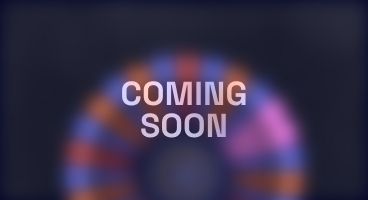
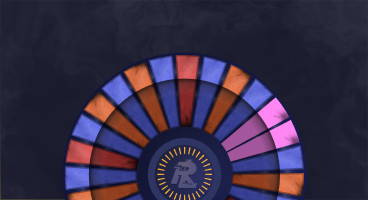
remove game modes

diff --git a/src/components/new-home/RustyOriginals.jsx b/src/components/new-home/RustyOriginals.jsx
@@ -46,6 +46,7 @@ const gameModes = [
   {
     name: "Mines",
     video: Mines,
+    disabled: true,
     icon: <MinesIcon additionClasses='w-5 h-5 text-gray-55' />,
     url: URL.GAMEMODES.MINES
   },
@@ -58,6 +59,7 @@ const gameModes = [
   {
     name: "Plinko",
     video: Plinko,
+    disabled: true,
     icon: <PlinkoIcon additionClasses='w-5 h-5 text-gray-55' />,
     url: URL.GAMEMODES.PLINKO
   },
@@ -89,8 +91,13 @@ const RustyOriginals = () => {
         <div class="grid grid-cols-home-original gap-x-6 gap-y-8 w-full ">
             <For each={[...gameModes].slice(0, 3)}>
                 {(mode) => 
-                <div class={`col-span-5 home-originals overflow-hidden ${mode.disabled ? "opacity-60 grayscale-[98%] sepia-[8%] hue-rotate-[167deg] saturate-[628%]" : ""}`}>
-                  <NavLink href={mode.url}>
+                <div class={`col-span-5 home-originals overflow-hidden ${mode.disabled ? "mix-blend-luminosity" : ""}`}>
+                  <NavLink class="relative" href={!mode.disabled ? mode.url : ''}>
+                    {mode.disabled ? <div
+                      class="absolute left-0 top-0 w-full h-full backdrop-blur-md center text-32 font-SpaceGrotesk font-bold"
+                    >
+                      <span class="comming-soon-text-gradient text-center leading-8">COMING<br />SOON</span>
+                    </div> : ""}
                     {mode.video ? <video
                       src={mode.video}
                       alt="rotating dome"
@@ -121,16 +128,25 @@ const RustyOriginals = () => {
             <For each={[...gameModes].slice(3)}>
               {(mode) => 
                 
-                  <div class=" col-span-5 lg:col-span-3 home-originals-secondary h-[272px] overflow-hidden relative ">
-                    <NavLink href={mode.url}>
+                  <div class={` col-span-5 lg:col-span-3 home-originals-secondary h-[272px] overflow-hidden relative ${mode.disabled ? "mix-blend-luminosity" : ""}`}>
+                    <NavLink class="relative" href={!mode.disabled ? mode.url : ''}>
+                      {mode.disabled ? <div
+                        class="absolute left-0 top-0 w-full h-full backdrop-blur-md center text-32 font-SpaceGrotesk font-bold"
+                      >
+                        <span class="comming-soon-text-gradient text-center leading-8">COMING<br />SOON</span>
+                      </div> : ""}
                       <video
                         src={mode.video}
                         alt="rotating dome"
                         class="min-w-full min-h-full"
-                        onMouseEnter={e => e.target.play()}
+                        onMouseEnter={e => {
+                          if (!mode.disabled) e.target.play()
+                        }}
                         onMouseLeave={e => {
-                          e.target.pause()
-                          e.target.currentTime = 0
+                          if (!mode.disabled) {
+                            e.target.pause()
+                            e.target.currentTime = 0
+                          }
                         }}
                         playsinline
                         muted

diff --git a/src/App.jsx b/src/App.jsx
@@ -190,7 +190,7 @@ const App = () => {
                                   path={`${URL.TOS}`}
                                   element={<Tos />}
                                 />
-                                <Route
+                                {/* <Route
                                   exact
                                   path={`${URL.GAMEMODES.WHEEL}`}
                                   element={
@@ -199,13 +199,13 @@ const App = () => {
                                       pathname={pathname}
                                     />
                                   }
-                                />
-                                <Route
+                                /> */}
+                                {/* <Route
                                   exact
                                   path={`${URL.GAMEMODES.MINES}`}
                                   element={<Mines loaded={loaded} />}
-                                />
-                                <Route
+                                /> */}
+                                {/* <Route
                                   exact
                                   path={`${URL.GAMEMODES.PLINKO}`}
                                   element={
@@ -214,7 +214,7 @@ const App = () => {
                                       pathname={pathname}
                                     />
                                   }
-                                />
+                                /> */}
                                 <Route
                                   path={`${URL.GAMEMODES.COINFLIP}/*`}
                                   element={<Coinflip loaded={loaded} />}

diff --git a/src/components/header/SubHeader.jsx b/src/components/header/SubHeader.jsx
@@ -81,17 +81,23 @@ const SubHeader = (props) => {
     {
       name: { en: 'Wheel', es: 'rueda', ru: 'колесо' },
       svg: <WheelIcon />,
-      url: URL.GAMEMODES.WHEEL
+      url: URL.GAMEMODES.WHEEL,
+      mark: 'soon',
+      disabled: true,
     },
     {
       name: { en: 'Mines', es: 'Minas', ru: 'Бомбы' },
       svg: <MinesIcon />,
-      url: URL.GAMEMODES.MINES
+      url: URL.GAMEMODES.MINES,
+      mark: 'soon',
+      disabled: true,
     },
     {
       name: { en: 'Plinko', es: 'Plinko', ru: 'Плинко' },
       svg: <PlinkoIcon />,
-      url: URL.GAMEMODES.PLINKO
+      url: URL.GAMEMODES.PLINKO,
+      mark: 'soon',
+      disabled: true,
     },
     {
       name: { en: 'Cases', es: 'cases', ru: 'cases' },
@@ -327,12 +333,14 @@ const SubHeader = (props) => {
                 <For each={navigationGameModes}>
                   {(mode) => (
                     <NavLink
-                      href={`${mode.url}`}
+                      href={mode.disabled ? "" : mode.url}
                       class='relative'
                       onClick={() => {
-                        document.getElementById('scrollWrapper').scrollTop = 0
-                        setActive(false)
-                        setCurrPath(() => mode.url)
+                        if (!mode.disabled) {
+                          document.getElementById('scrollWrapper').scrollTop = 0
+                          setActive(false)
+                          setCurrPath(() => mode.url)
+                        }
                       }}
                     >
                       <div

diff --git a/src/components/header/ModeMark.jsx b/src/components/header/ModeMark.jsx
@@ -17,6 +17,15 @@ const ModeMark = (props) => {
             HOT
           </span>
         </span>
+      ) : props.mark === 'soon' ? (
+        <div
+          class={props.labelStyles ?? "rounded-2 absolute right-0.5 top-0 z-10 px-1 center text-green-3e font-Quicksand font-bold text-10"}
+          style={{
+              background: "linear-gradient(75.96deg, rgba(255, 255, 255, 0) 20.07%, rgba(255, 255, 255, 0.12) 41.3%, rgba(0, 0, 0, 0.12) 68.93%, rgba(255, 255, 255, 0.12) 100%), radial-gradient(98.73% 114.02% at 100% -37.29%, rgba(11, 189, 82, 0.48) 0%, rgba(0, 0, 0, 0) 100%) /* warning: gradient uses a rotation that is not supported by CSS and may not behave as expected */, radial-gradient(99.15% 99.15% at 12.7% 107.2%, rgba(11, 189, 82, 0.48) 0%, rgba(0, 0, 0, 0) 100%) /* warning: gradient uses a rotation that is not supported by CSS and may not behave as expected */, linear-gradient(0deg, rgba(255, 255, 255, 0.08), rgba(255, 255, 255, 0.08)), linear-gradient(180deg, rgba(11, 189, 82, 0) 0%, rgba(11, 189, 82, 0.12) 100%), radial-gradient(58.03% 60.37% at 50% 29.27%, rgba(118, 124, 255, 0.05) 0%, rgba(118, 124, 255, 0) 100%), radial-gradient(100% 275.07% at 100% 0%, rgba(33, 36, 60, 0.48) 0%, rgba(29, 31, 48, 0.48) 100%)",            
+          }}
+          >
+            SOON
+        </div>
       ) : (
         ""
       )}

diff --git a/src/libraries/navigation.jsx b/src/libraries/navigation.jsx
@@ -39,18 +39,21 @@ export const navigationGameModes = [
     svg: <WheelIcon />,
     svgActive: <WheelActiveIcon/>,
     url: URL.GAMEMODES.WHEEL,
+    disabled: true
   },
   {
     name: { en: "mines", es: "Minas", ru: "Бомбы" },
     svg: <MinesIcon />,
     svgActive: <MinesActiveIcon />,
     url: URL.GAMEMODES.MINES,
+    disabled: true
   },
   {
     name: { en: "plinko", es: "Plinko", ru: "Плинко" },
     svg: <PlinkoIcon />,
     svgActive: <PlinkoActiveIcon />,
     url: URL.GAMEMODES.PLINKO,
+    disabled: true
   },
   {
     name: { en: "cases", es: "cases", ru: "cases" },

diff --git a/src/index.css b/src/index.css
@@ -3891,7 +3891,13 @@ input.gold-input:not(:placeholder-shown) {
 }
 
 
-
+.comming-soon-text-gradient {
+  background: linear-gradient(75.96deg, rgba(255, 255, 255, 0) 20.07%, rgba(255, 255, 255, 0.16) 41.3%, rgba(0, 0, 0, 0.16) 68.93%, rgba(255, 255, 255, 0.16) 100%), radial-gradient(70% 70% at 50% 80%, #FFB436 0%, #FFD58F 100%), #9A9EC8;
+  -webkit-background-clip: text;
+  -webkit-text-fill-color: transparent;
+  background-clip: text;
+  text-fill-color: transparent;
+}
 
 
 .toast-countdown {

diff --git a/src/components/header/MobileNav.jsx b/src/components/header/MobileNav.jsx
@@ -28,7 +28,7 @@ const MobileNav = (props) => {
           active() && !isNotificationModalOpen() ? "flex" : "hidden"
         } lg:hidden flex-col left-0 top-full w-full h-[calc(100vh-55px)] bg-dark-13 overflow-y-scroll`}
       >
-        <For each={navigationGameModes}>
+        <For each={navigationGameModes.filter(i => !i.disabled)}>
           {(mode) =>
             mode.url ? (
               <NavLink
